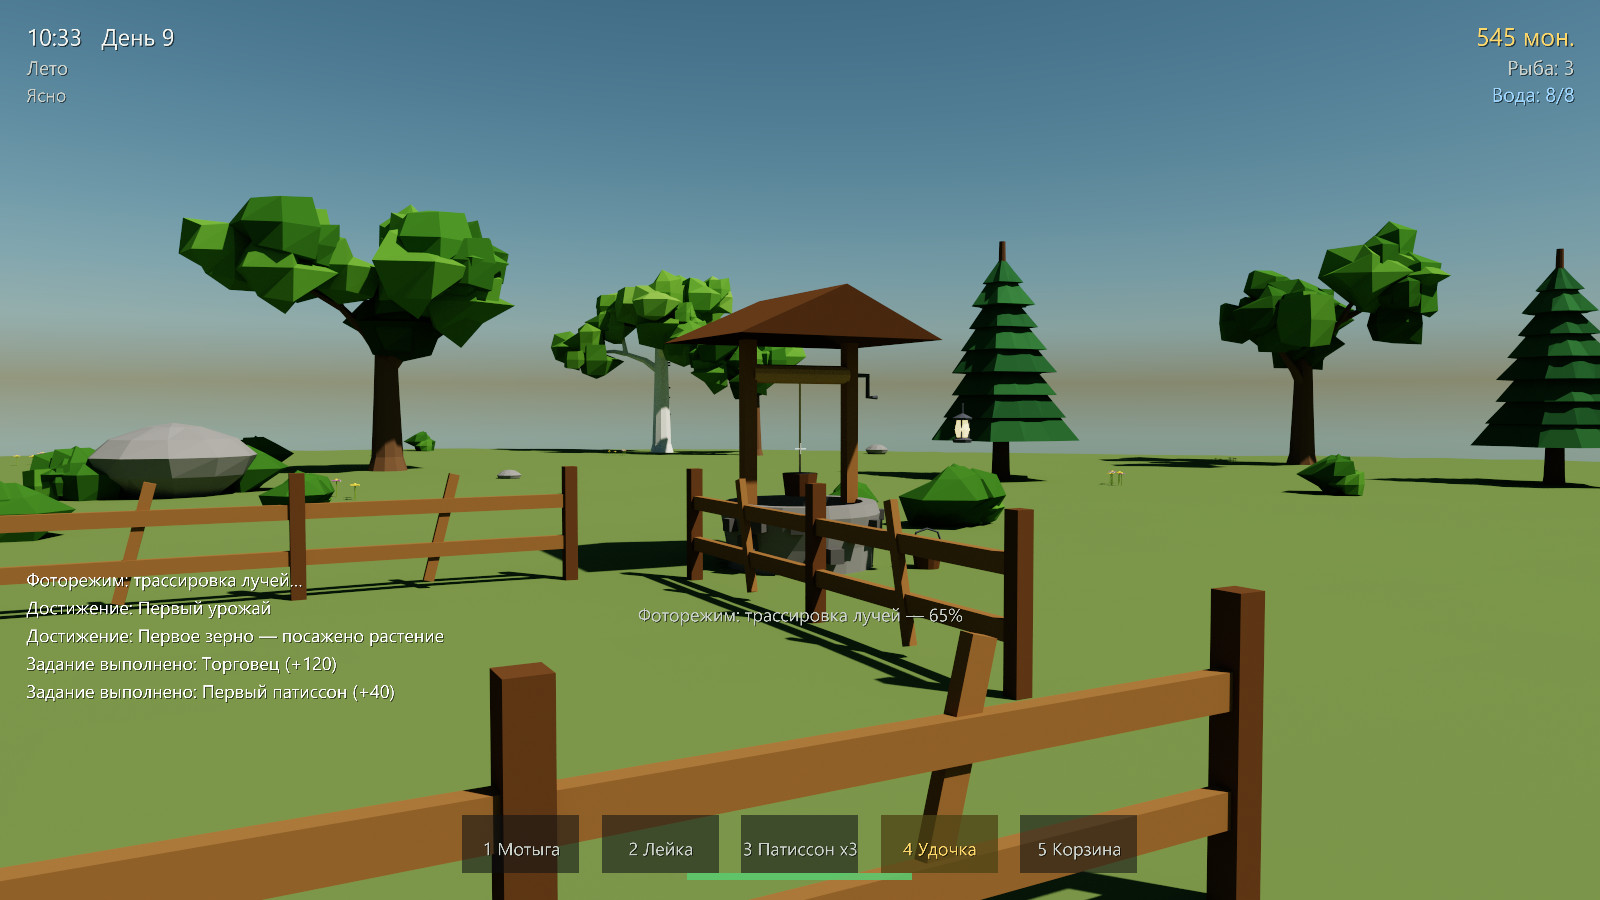
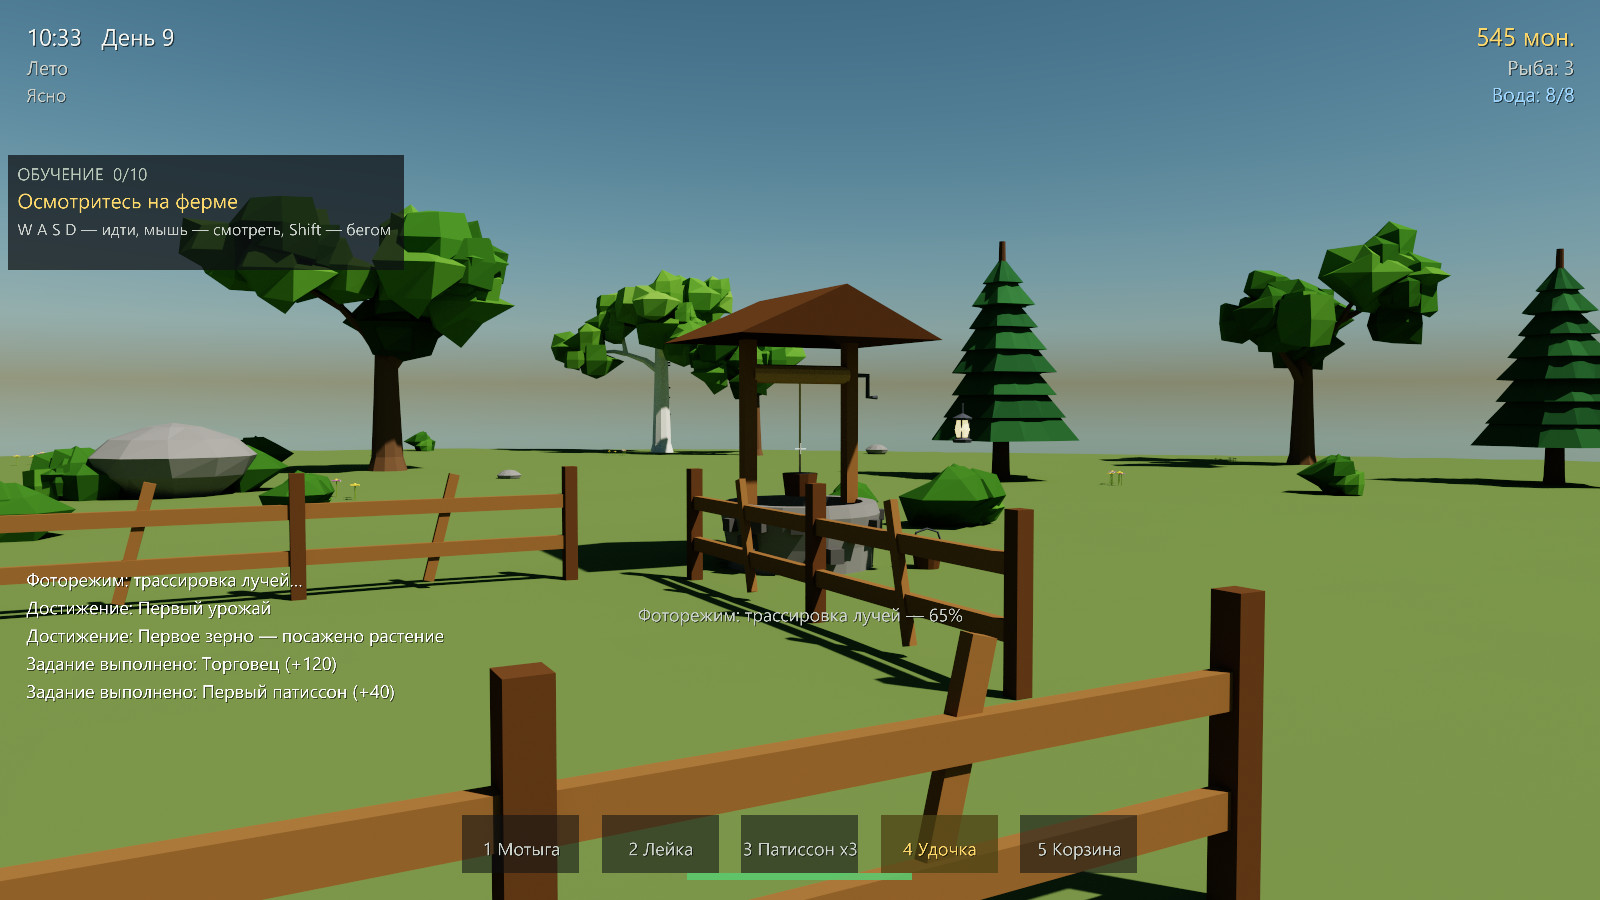
Patisson 2.0: a tutorial that watches instead of lecturing
A new player was told to hoe a plot and left to work the rest out. Ten steps
now sit in the corner of the screen and tick themselves off as things actually
happen — a plot tilled, water drawn, a harvest sold, the map opened. Each step
waits on an event the game already fired for its own reasons, so there is no
box to dismiss and no way to "complete" a step without doing it. Firing an
event out of order does nothing; the list only ever advances by one.

The pause menu gained a button to switch it off, and the progress goes into the
save file.

Fixing that turned up a real bug: the save call had never been updated to pass
the pest state, so the scarecrow's condition was silently discarded on every
save. It writes now, along with the tutorial.

Also removed the starter notification the tutorial made redundant, added Tab to
the in-game controls list, and moved the pause buttons clear of the panel text
they had started overlapping.

Changed region(s): [[0.0, 0.1556, 0.25, 0.3111]]

diff --git a/patisson2/app.py b/patisson2/app.py
@@ -26,6 +26,7 @@ from .game.npc import Villagers
 from .game.pests import Pests
 from .game.player import Player
 from .game.state import GameState, load_game, save_game, shop_entries
+from .game.tutorial import Tutorial
 from .ui.hud import HUD
 from .ui.menu import MainMenu
 from .ui.worldmap import WorldMap
@@ -109,6 +110,8 @@ class PatissonApp(ShowBase):
         self.fishing = Fishing(random.Random(self.cfg.world.seed ^ 0xF15))
         self.photo_mode = False
         self.worldmap = WorldMap(self, self.hud, self.world, self.cfg.world)
+        self.tutorial = Tutorial()
+        self._walked = 0.0
         self.mode = "menu"             # menu | playing
         self.menu = MainMenu(self, self.hud)
         self._setup_input()
@@ -218,14 +221,18 @@ class PatissonApp(ShowBase):
     def menu_new_game(self):
         self.sound("click", 0.6)
         self.reset_world()
+        self.tutorial = Tutorial()
+        self._walked = 0.0
         self._enter_world()
-        self.state.notify(
-            "Ферма ждёт. Возьмите мотыгу (1) и вскопайте грядку.", 8.0)
+        # The tutorial panel says all this, and says it until it is done.
+        if not self.tutorial.active:
+            self.state.notify("Ферма ждёт.", 5.0)
 
     def menu_continue(self):
         self.sound("click", 0.6)
         if load_game(self.state, self.farm, self.cycle, self.player,
-                     livestock=self.livestock, pests=self.pests):
+                     livestock=self.livestock, pests=self.pests,
+                     tutorial=self.tutorial):
             self._enter_world()
             self.state.notify("Игра загружена")
         else:
@@ -282,6 +289,7 @@ class PatissonApp(ShowBase):
         if self.mode == "menu" or self.hud.panel_mode:
             return
         self.sound("click", 0.5)
+        self.teach("map")
         opened = self.worldmap.toggle()
         # The HUD would otherwise print prompts straight across the map.
         if opened:
@@ -311,6 +319,23 @@ class PatissonApp(ShowBase):
         self.sound("click", 0.7)
         minutes = int(seconds / self.cfg.game.day_length * 24 * 60)
         self.state.notify(f"{label}: дорога заняла {max(1, minutes)} мин")
+
+    def skip_tutorial(self):
+        self.sound("click", 0.5)
+        self.tutorial.skip()
+        self.state.notify("Обучение отключено")
+        self.hud.close_panel()
+        self.paused = False
+        self._grab_mouse(True)
+
+    def teach(self, event: str) -> None:
+        """Tell the tutorial something real happened."""
+        step = self.tutorial.record(event)
+        if step is not None:
+            self.sound("click", 0.45)
+            if self.tutorial.finished:
+                self.state.notify("Обучение пройдено. Ферма ваша.", 6.0)
+                self.state.unlock("first_seed")
 
     def sound(self, name: str, volume: float = 1.0, pitch: float = 0.0):
         if self.audio:
@@ -434,12 +459,14 @@ class PatissonApp(ShowBase):
 
     def on_save(self):
         path = save_game(self.state, self.farm, self.cycle, self.player,
-                         livestock=self.livestock)
+                         livestock=self.livestock, pests=self.pests,
+                         tutorial=self.tutorial)
         self.state.notify(f"Сохранено: {path.name}")
 
     def on_load(self):
         if load_game(self.state, self.farm, self.cycle, self.player,
-                     livestock=self.livestock, pests=self.pests):
+                     livestock=self.livestock, pests=self.pests,
+                     tutorial=self.tutorial):
             self.state.notify("Игра загружена")
         else:
             self.state.notify("Сохранение не найдено")
@@ -449,7 +476,10 @@ class PatissonApp(ShowBase):
             self.on_eat()
             return
         if self._near_stall():
-            self.sound("coin" if self.state.sell_all() else "error", 0.9)
+            sold = self.state.sell_all()
+            self.sound("coin" if sold else "error", 0.9)
+            if sold:
+                self.teach("sell")
         else:
             self.sound("error", 0.6)
             self.state.notify("Продавать можно у прилавка")
@@ -672,6 +702,7 @@ class PatissonApp(ShowBase):
                     if st.weeded >= 20:
                         st.unlock("gardener")
                     st.notify("Грядка прополота")
+                    self.teach("weed")
                     return
                 from .world.layout import PLOT_SPACING
                 dug = 0
@@ -681,6 +712,7 @@ class PatissonApp(ShowBase):
                         dug += 1
                 if dug:
                     self.sound("dig", 0.9)
+                    self.teach("till")
                     st.notify("Грядка вскопана" if dug == 1
                               else f"Вскопано грядок: {dug}")
                 else:
@@ -693,6 +725,7 @@ class PatissonApp(ShowBase):
             if self._near_well() or self._near_water():
                 st.water = st.upgrades.can_capacity
                 self.sound("well" if self._near_well() else "splash", 0.7)
+                self.teach("fill")
                 st.notify("Лейка полна")
             elif plot is not None and st.water >= 1.0:
                 targets = [plot]
@@ -710,6 +743,7 @@ class PatissonApp(ShowBase):
                         poured += 1
                 if poured:
                     self.sound("water", 0.8)
+                    self.teach("water")
                     if poured > 1:
                         st.notify(f"Полито грядок: {poured}")
                 elif not poured:
@@ -725,6 +759,7 @@ class PatissonApp(ShowBase):
                 if st.take(f"seed_{key}"):
                     self.farm.plant(plot, key)
                     self.sound("plant", 0.85)
+                    self.teach("plant")
                     st.unlock("first_seed")
                     st.notify(f"Посажено: {CROPS[key].name}")
                     growing = sum(1 for p in self.farm.plots if p.crop)
@@ -748,6 +783,7 @@ class PatissonApp(ShowBase):
                 if result:
                     key, count = result
                     self.sound("harvest", 0.9)
+                    self.teach("harvest")
                     st.give(key, count)
                     st.record("harvest", key, count)
                     st.unlock("first_harvest")
@@ -885,8 +921,12 @@ class PatissonApp(ShowBase):
         if in_menu:
             cam_pos = self.menu.update(dt, self.camera, self.world)
         else:
+            before = Vec3(self.player.pos)
             self.player.update(dt, self.keys, blocked=blocked)
             self.player.apply_to_camera(self.camera)
+            self._walked += (self.player.pos - before).length()
+            if self._walked > 8.0:
+                self.teach("move")
             cam_pos = self.player.eye
         st.stamina_frac = self.player.stamina / self.cfg.game.stamina_max
 

diff --git a/patisson2/ui/hud.py b/patisson2/ui/hud.py
@@ -116,6 +116,25 @@ class HUD:
         self._fish_shown = False
         self._fish_band = -1.0
 
+        # --- tutorial checklist ------------------------------------------
+        self.tutor_panel = DirectFrame(
+            parent=self.root, frameColor=(0.05, 0.06, 0.07, 0.72),
+            frameSize=(-0.02, 0.86, -0.20, 0.055), pos=(-1.74, 0, 0.60))
+        self.tutor_panel.setBin("fixed", 8)
+        self.tutor_head = OnscreenText(
+            text="", pos=(0.0, 0.0), scale=0.038, fg=(0.72, 0.78, 0.72, 1),
+            font=self.font, align=TextNode.ALeft, parent=self.tutor_panel,
+            mayChange=True)
+        self.tutor_title = OnscreenText(
+            text="", pos=(0.0, -0.062), scale=0.046, fg=GOLD, font=self.font,
+            align=TextNode.ALeft, parent=self.tutor_panel, mayChange=True)
+        self.tutor_hint = OnscreenText(
+            text="", pos=(0.0, -0.122), scale=0.036, fg=DIM, font=self.font,
+            align=TextNode.ALeft, parent=self.tutor_panel, mayChange=True,
+            wordwrap=24)
+        self.tutor_panel.hide()
+        self._tutor_shown = False
+
         self.crosshair = OnscreenText(text="+", pos=(0, -0.012), scale=0.055,
                                       fg=(1, 1, 1, 0.55), font=self.font,
                                       align=TextNode.ACenter, parent=self.root)
@@ -200,6 +219,7 @@ class HUD:
         app = self.base
         entries = [
             ("Продолжить", app.on_escape),
+            ("Пропустить обучение", app.skip_tutorial),
             ("Сохранить", app.on_save),
             ("В главное меню", app.open_main_menu),
             ("Выход", app.userExit),
@@ -207,11 +227,11 @@ class HUD:
         for i, (label, cmd) in enumerate(entries):
             b = DirectButton(
                 parent=self.panel, text=label, text_font=self.font,
-                text_fg=INK, text_scale=0.045, text_pos=(0, -0.015),
+                text_fg=INK, text_scale=0.036, text_pos=(0, -0.012),
                 frameColor=((0.12, 0.14, 0.12, 0.9), (0.26, 0.32, 0.18, 0.95),
                             (0.34, 0.42, 0.22, 1.0), (0.1, 0.1, 0.1, 0.6)),
-                frameSize=(-0.24, 0.24, -0.042, 0.052), relief=1,
-                pos=(-0.75 + i * 0.50, 0, -0.52), command=cmd)
+                frameSize=(-0.172, 0.172, -0.042, 0.052), relief=1,
+                pos=(-0.86 + i * 0.36, 0, -0.615), command=cmd)
             b.setTransparency(TransparencyAttrib.MAlpha)
             self.panel_buttons.append(b)
 
@@ -297,7 +317,7 @@ class HUD:
                      "  WASD — движение,  Shift — бег,  Space — прыжок",
                      "  ЛКМ / E — действие инструментом",
                      "  1..5 — инструменты,  Q/колесо — выбор семян",
-                     "  T — магазин,  K — котёл,  J — журнал",
+                     "  T — магазин,  K — котёл,  J — журнал,  Tab — карта",
                      "  F5 — сохранить,  F9 — загрузить",
                      "  P — фотореж. (трассировка лучей),  F1 — интерфейс",
                      "  M — звук вкл/выкл,  - / = — громкость",
@@ -326,6 +346,29 @@ class HUD:
         return shop_entries(self.state.upgrades)[self.shop_index][0]
 
     # ---------------------------------------------------------------- update
+
+    def _update_tutorial(self):
+        """Show the current objective, or the sign-off once it is all done."""
+        tut = getattr(self.base, "tutorial", None)
+        if tut is None or not tut.active:
+            if self._tutor_shown:
+                self.tutor_panel.hide()
+                self._tutor_shown = False
+            return
+        if not self._tutor_shown:
+            self.tutor_panel.show()
+            self._tutor_shown = True
+        done, total = tut.progress()
+        step = tut.current
+        if step is None:
+            from ..game.tutorial import DONE_HINT, DONE_TITLE
+            self._set(self.tutor_head, f"ОБУЧЕНИЕ  {total}/{total}")
+            self._set(self.tutor_title, DONE_TITLE)
+            self._set(self.tutor_hint, DONE_HINT)
+        else:
+            self._set(self.tutor_head, f"ОБУЧЕНИЕ  {done}/{total}")
+            self._set(self.tutor_title, step.title)
+            self._set(self.tutor_hint, step.hint)
 
     def _update_fishing(self):
         """Draw the reel bar: a sweeping marker and the band to stop it in."""
@@ -410,6 +453,7 @@ class HUD:
         # Assigning frameSize rebuilds the frame's geometry, so quantise it —
         # a bar that redraws every frame costs more than the rest of the HUD.
         self._update_fishing()
+        self._update_tutorial()
 
         frac = max(0.0, min(1.0, state.stamina_frac))
         step = round(frac * 40)

diff --git a/patisson2/game/tutorial.py b/patisson2/game/tutorial.py
@@ -1,0 +1,86 @@
+"""A tutorial that watches what the player does rather than lecturing them.
+
+Each step names an event the game already fires when something real happens —
+a plot tilled, a fish landed, the shop opened — so the checklist advances by
+playing, never by dismissing a box.
+"""
+
+from __future__ import annotations
+
+from dataclasses import dataclass
+
+
+@dataclass(frozen=True)
+class Step:
+    event: str
+    title: str
+    hint: str
+
+
+STEPS: tuple[Step, ...] = (
+    Step("move", "Осмотритесь на ферме",
+         "W A S D — идти, мышь — смотреть, Shift — бегом"),
+    Step("till", "Вскопайте грядку мотыгой",
+         "1 — мотыга, наведитесь на землю у забора и нажмите E"),
+    Step("plant", "Посадите семена",
+         "3 — семена, Q меняет культуру, E — посадить"),
+    Step("fill", "Наберите воды",
+         "2 — лейка, подойдите к колодцу или пруду и нажмите E"),
+    Step("water", "Полейте грядку",
+         "С лейкой в руках наведитесь на грядку и нажмите E"),
+    Step("weed", "Прополите заросшую грядку",
+         "Сорняки лезут за полдня. Возьмите мотыгу (1) и нажмите E"),
+    Step("harvest", "Соберите урожай",
+         "5 — корзина. Спелое можно снимать"),
+    Step("sell", "Продайте урожай у прилавка",
+         "Прилавок к западу от грядок. Встаньте рядом и нажмите F"),
+    Step("shop", "Загляните в лавку",
+         "T — купить семена, удобрение и улучшения инструментов"),
+    Step("map", "Откройте карту",
+         "Tab — карта фермы, оттуда же можно перейти к любому месту"),
+)
+
+DONE_TITLE = "Ферма ваша"
+DONE_HINT = "Дальше — как захотите. J — задания и достижения"
+
+
+class Tutorial:
+    """Tracks which step is current. Fires once per event, in order."""
+
+    def __init__(self, active: bool = True):
+        self.index = 0
+        self.active = active
+        self.just_completed = False
+
+    @property
+    def finished(self) -> bool:
+        return self.index >= len(STEPS)
+
+    @property
+    def current(self) -> Step | None:
+        if not self.active or self.finished:
+            return None
+        return STEPS[self.index]
+
+    def record(self, event: str) -> Step | None:
+        """Advance if this is the event the current step is waiting for."""
+        step = self.current
+        if step is None or step.event != event:
+            return None
+        self.index += 1
+        self.just_completed = True
+        return step
+
+    def skip(self) -> None:
+        self.index = len(STEPS)
+        self.active = False
+
+    def progress(self) -> tuple[int, int]:
+        return min(self.index, len(STEPS)), len(STEPS)
+
+    def to_dict(self) -> dict:
+        return {"index": self.index, "active": self.active}
+
+    def from_dict(self, data: dict) -> None:
+        self.index = int(data.get("index", len(STEPS)))
+        self.active = bool(data.get("active", False))

diff --git a/patisson2/game/state.py b/patisson2/game/state.py
@@ -458,13 +458,14 @@ class GameState:
 
 
 def save_game(state: GameState, farm, cycle, player, path: Path = SAVE_PATH,
-              livestock=None, pests=None) -> Path:
+              livestock=None, pests=None, tutorial=None) -> Path:
     path.parent.mkdir(parents=True, exist_ok=True)
     blob = {
         "state": state.to_dict(),
         "farm": farm.to_dict(),
         "livestock": livestock.to_dict() if livestock else {},
         "pests": pests.to_dict() if pests else {},
+        "tutorial": tutorial.to_dict() if tutorial else {},
         "clock": {"total_time": cycle.total_time},
         "player": {"x": player.pos.x, "y": player.pos.y,
                    "heading": player.heading, "pitch": player.pitch},
@@ -474,7 +475,7 @@ def save_game(state: GameState, farm, cycle, player, path: Path = SAVE_PATH,
 
 
 def load_game(state: GameState, farm, cycle, player, path: Path = SAVE_PATH,
-              livestock=None, pests=None) -> bool:
+              livestock=None, pests=None, tutorial=None) -> bool:
     if not path.exists():
         return False
     try:
@@ -487,6 +488,8 @@ def load_game(state: GameState, farm, cycle, player, path: Path = SAVE_PATH,
         livestock.from_dict(blob.get("livestock", {}))
     if pests is not None:
         pests.from_dict(blob.get("pests", {}))
+    if tutorial is not None:
+        tutorial.from_dict(blob.get("tutorial", {}))
     cycle.total_time = blob.get("clock", {}).get("total_time", cycle.total_time)
     p = blob.get("player", {})
     if p:
